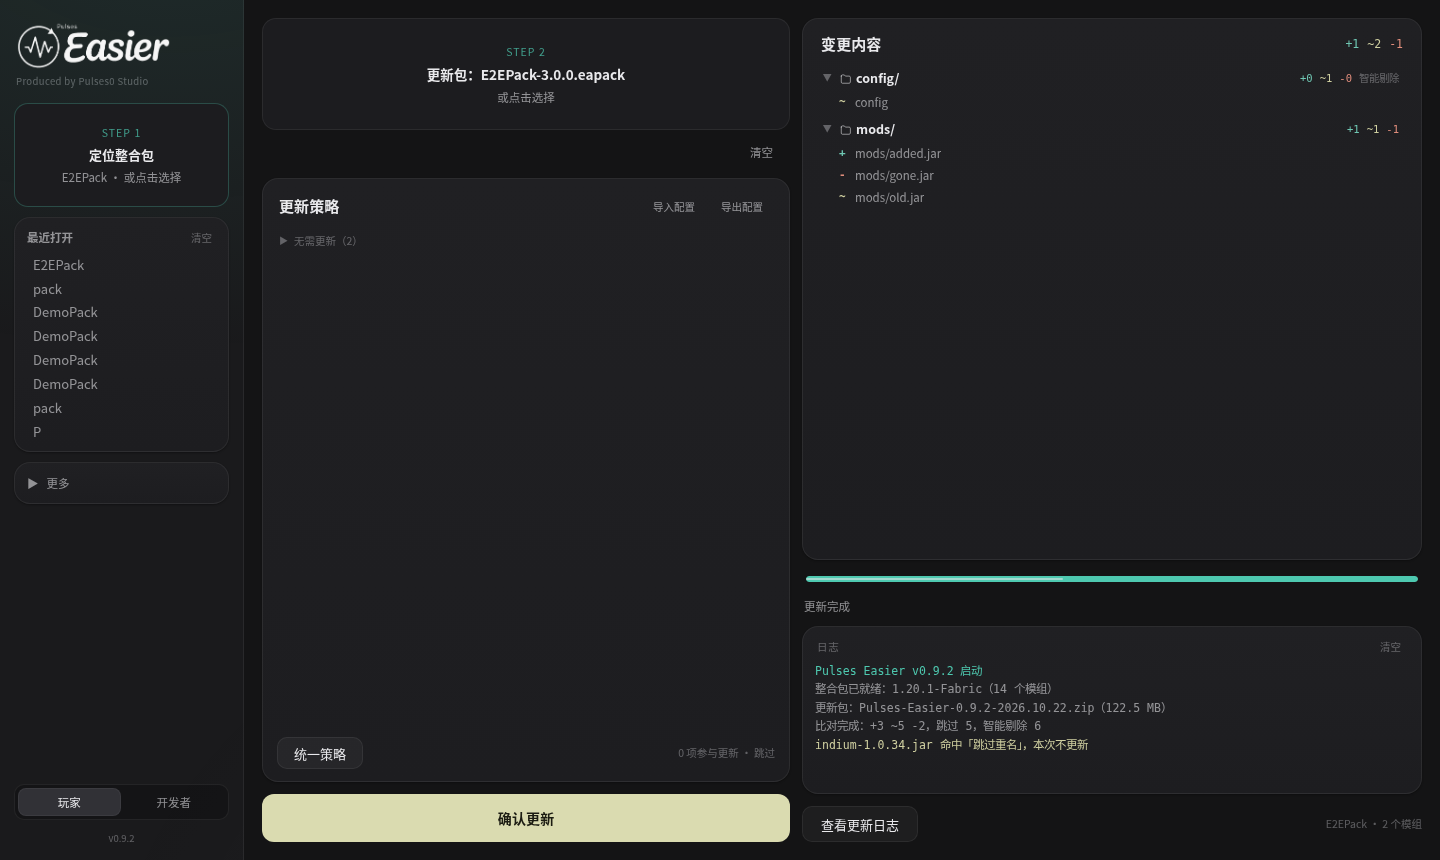
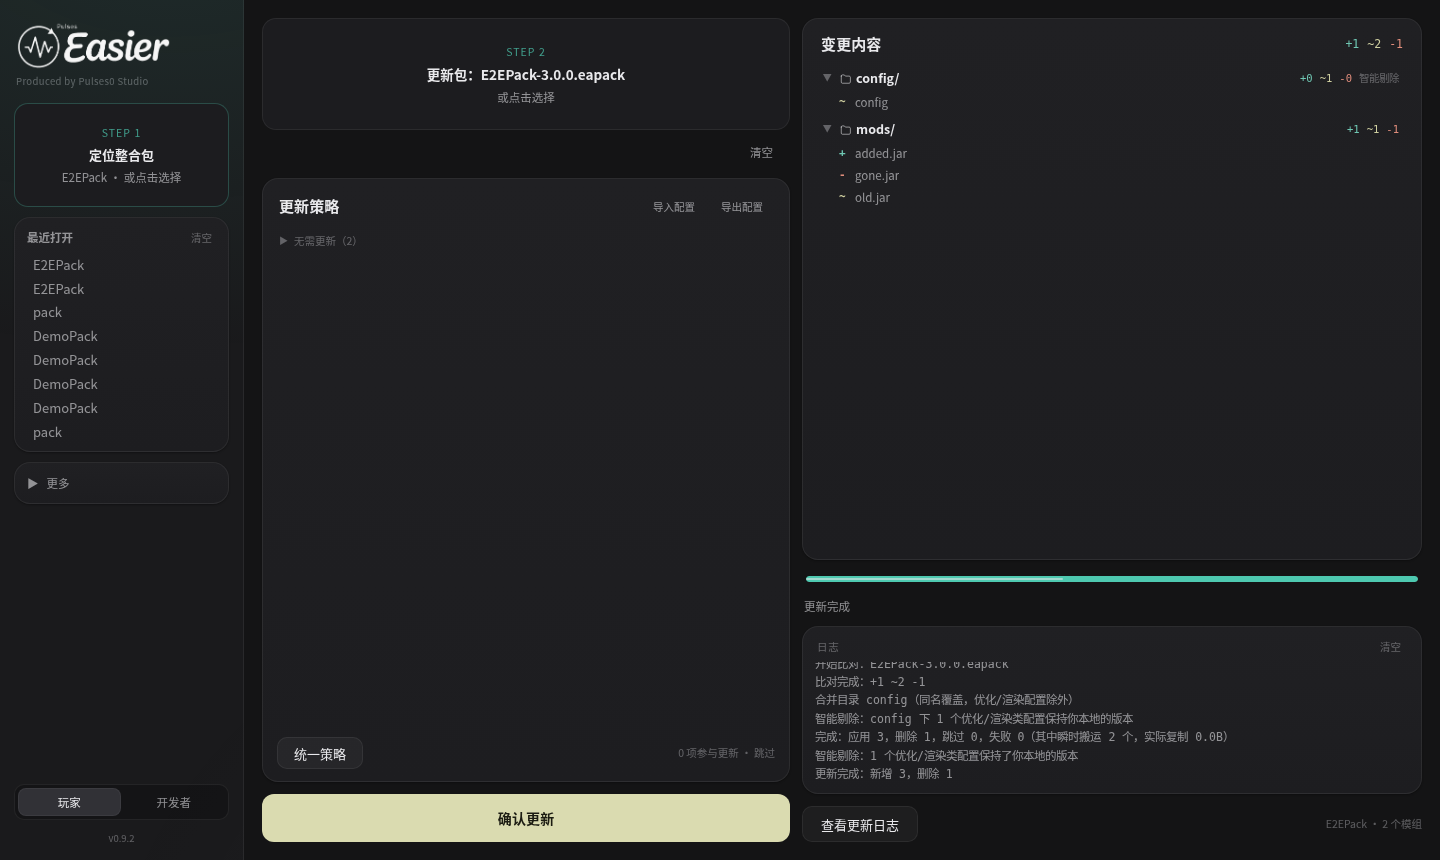
界面接真日志、变更行只显示文件名、更新完成后按钮回到「开始更新」

diff --git a/web/src/components/LogPanel.tsx b/web/src/components/LogPanel.tsx
@@ -1,10 +1,22 @@
 import { useEffect, useRef } from 'react'
+import { useApp } from '@/store/app'
 import { usePlayer } from '@/store/player'
 import styles from './LogPanel.module.css'
 
 export default function LogPanel() {
-  const log = usePlayer((s) => s.log)
-  const clearLog = usePlayer((s) => s.clearLog)
+  const demo = usePlayer((s) => s.log)
+  const clearDemo = usePlayer((s) => s.clearLog)
+  const connected = useApp((s) => s.connected)
+  const real = useApp((s) => s.logs)
+
+  // 后端推的日志是唯一事实；没连桥（浏览器预览）时才用演示数据
+  const log = connected
+    ? real.map((l) => ({ id: l.id, level: l.level.toLowerCase(), text: l.message }))
+    : demo
+  const clearLog = () => {
+    clearDemo()
+    if (connected) useApp.getState().clearLogs()
+  }
   const boxRef = useRef<HTMLDivElement>(null)
   const stickRef = useRef(true)
 

diff --git a/web/src/components/ChangeTree.tsx b/web/src/components/ChangeTree.tsx
@@ -125,7 +125,11 @@ function Group({
                 <span className={styles.mark} data-kind={it.kind}>
                   {it.kind === 'added' ? '+' : it.kind === 'modified' ? '~' : '-'}
                 </span>
-                <span className={styles.path}>{it.path}</span>
+                <span className={styles.path}>
+                  {it.path.startsWith(`${group.top}/`)
+                    ? it.path.slice(group.top.length + 1)
+                    : it.path}
+                </span>
                 {it.skipped && <span className={styles.skipped}>已跳过</span>}
               </div>
             ))}
